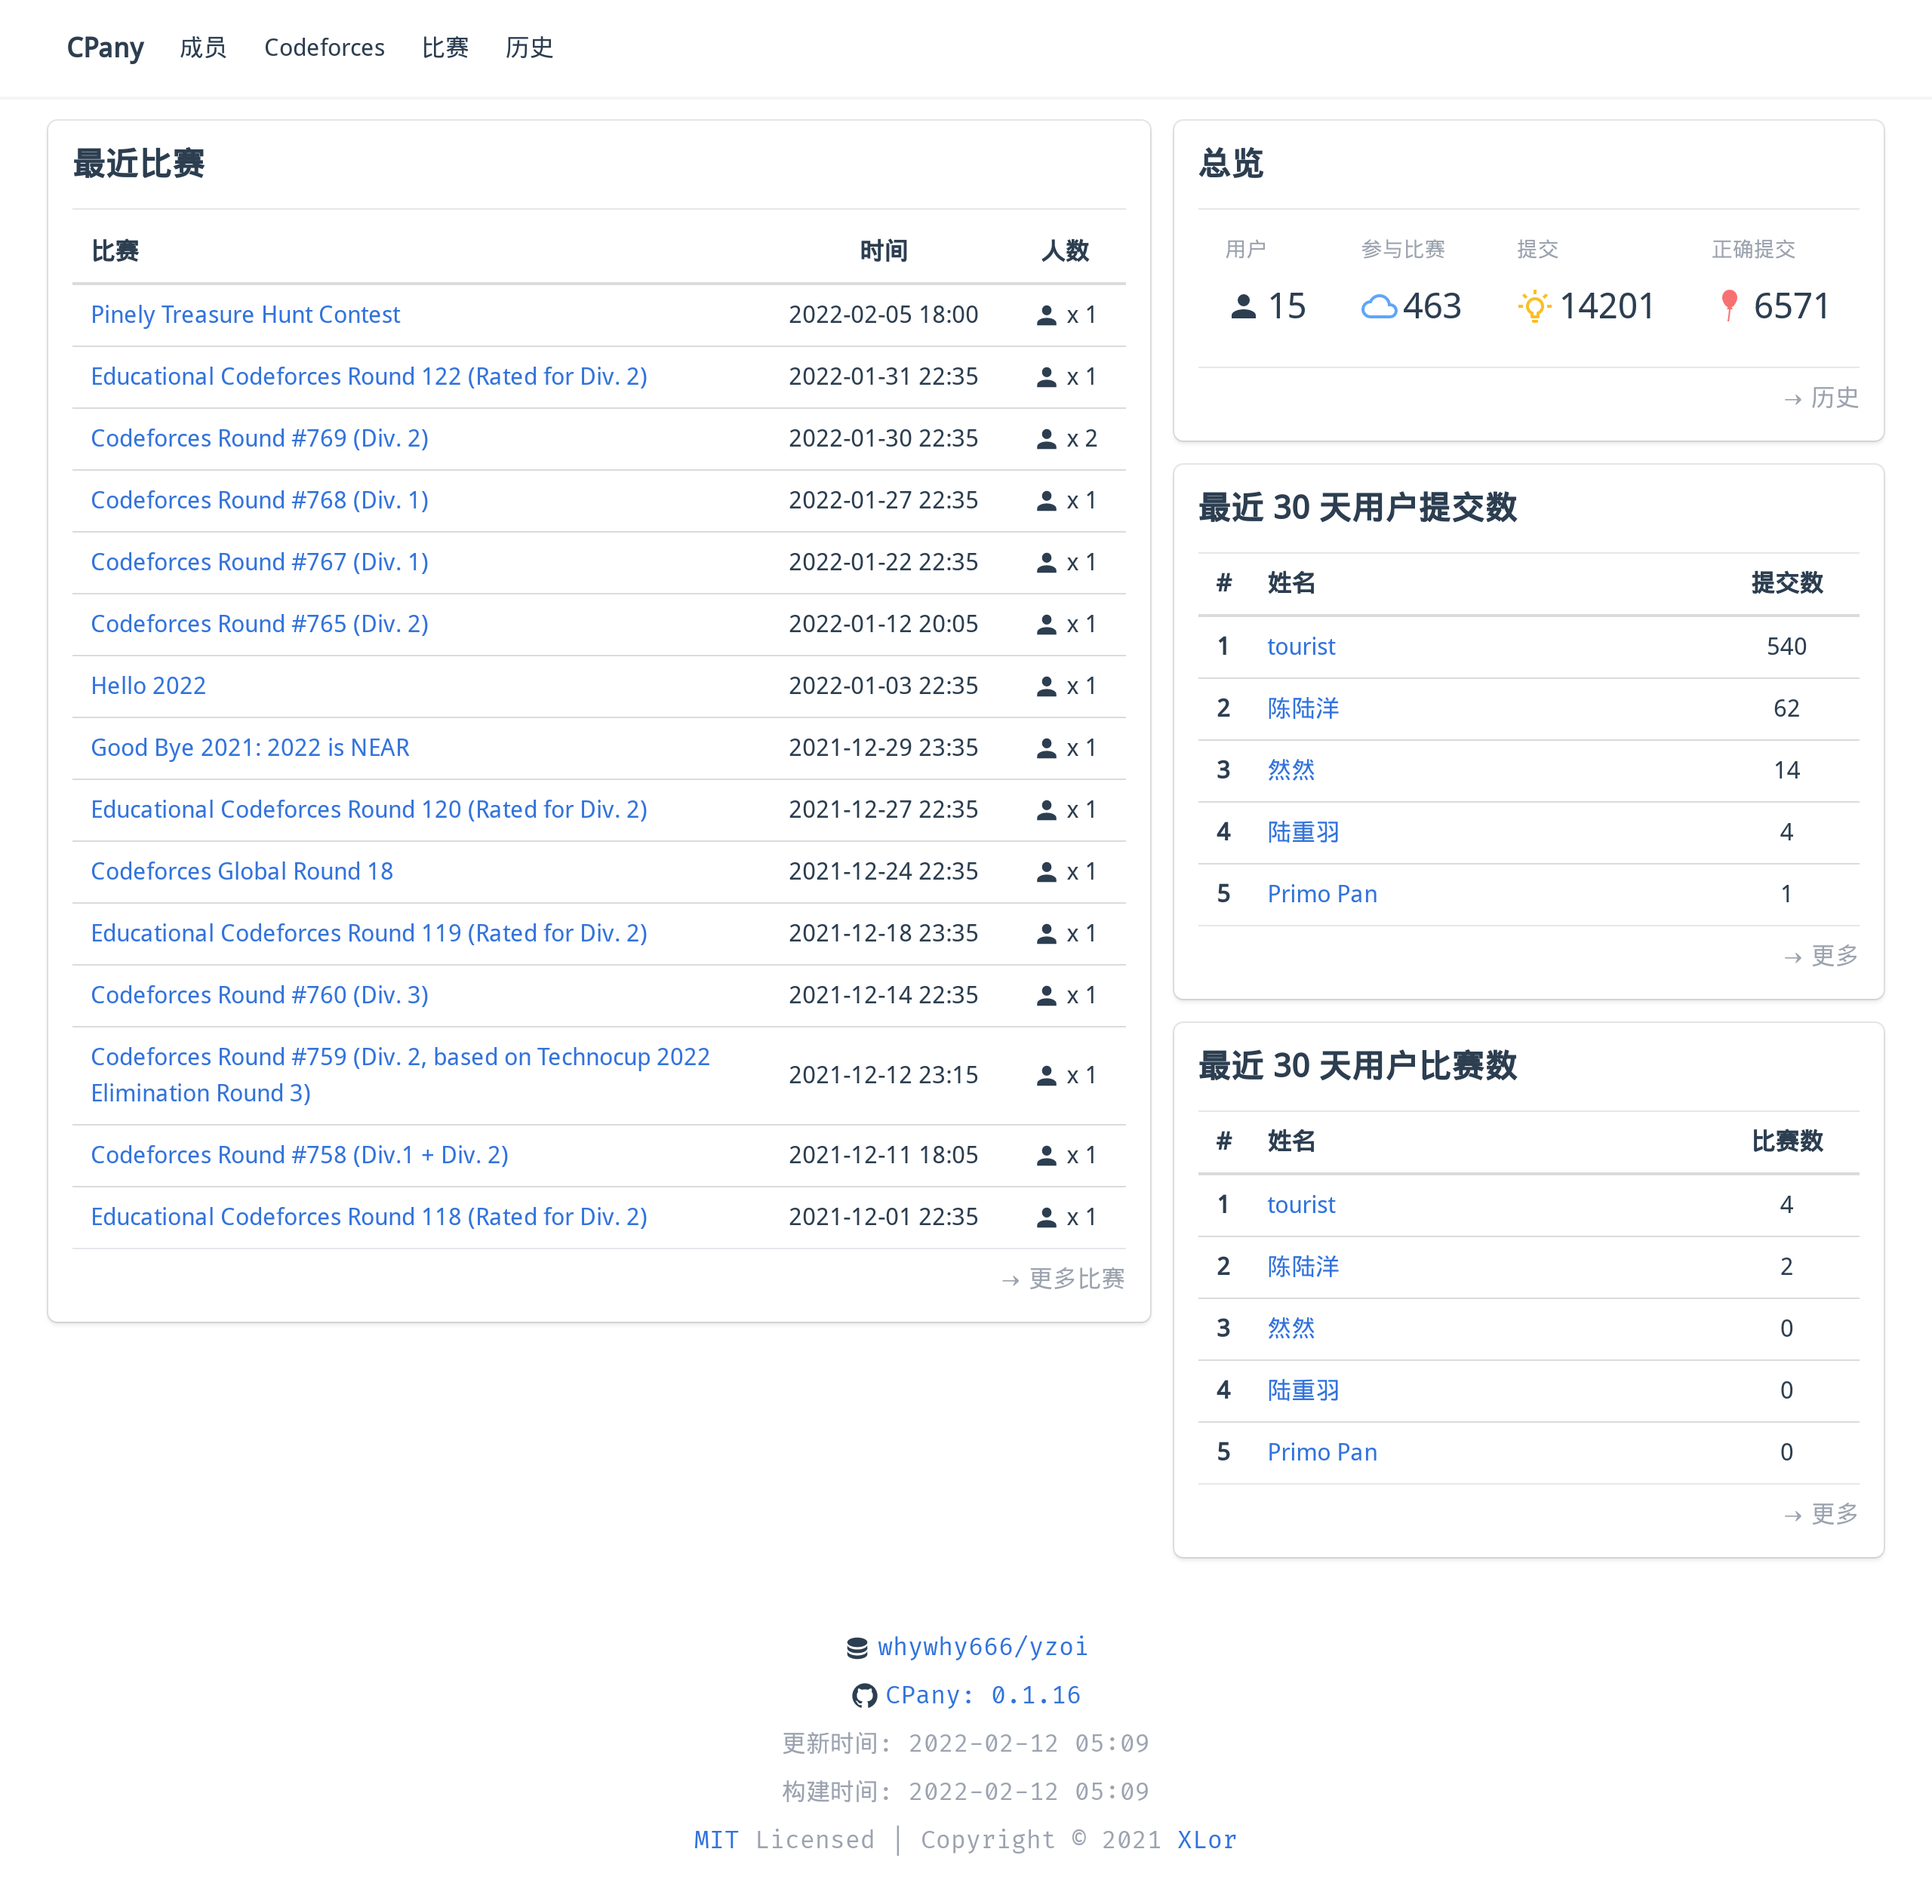
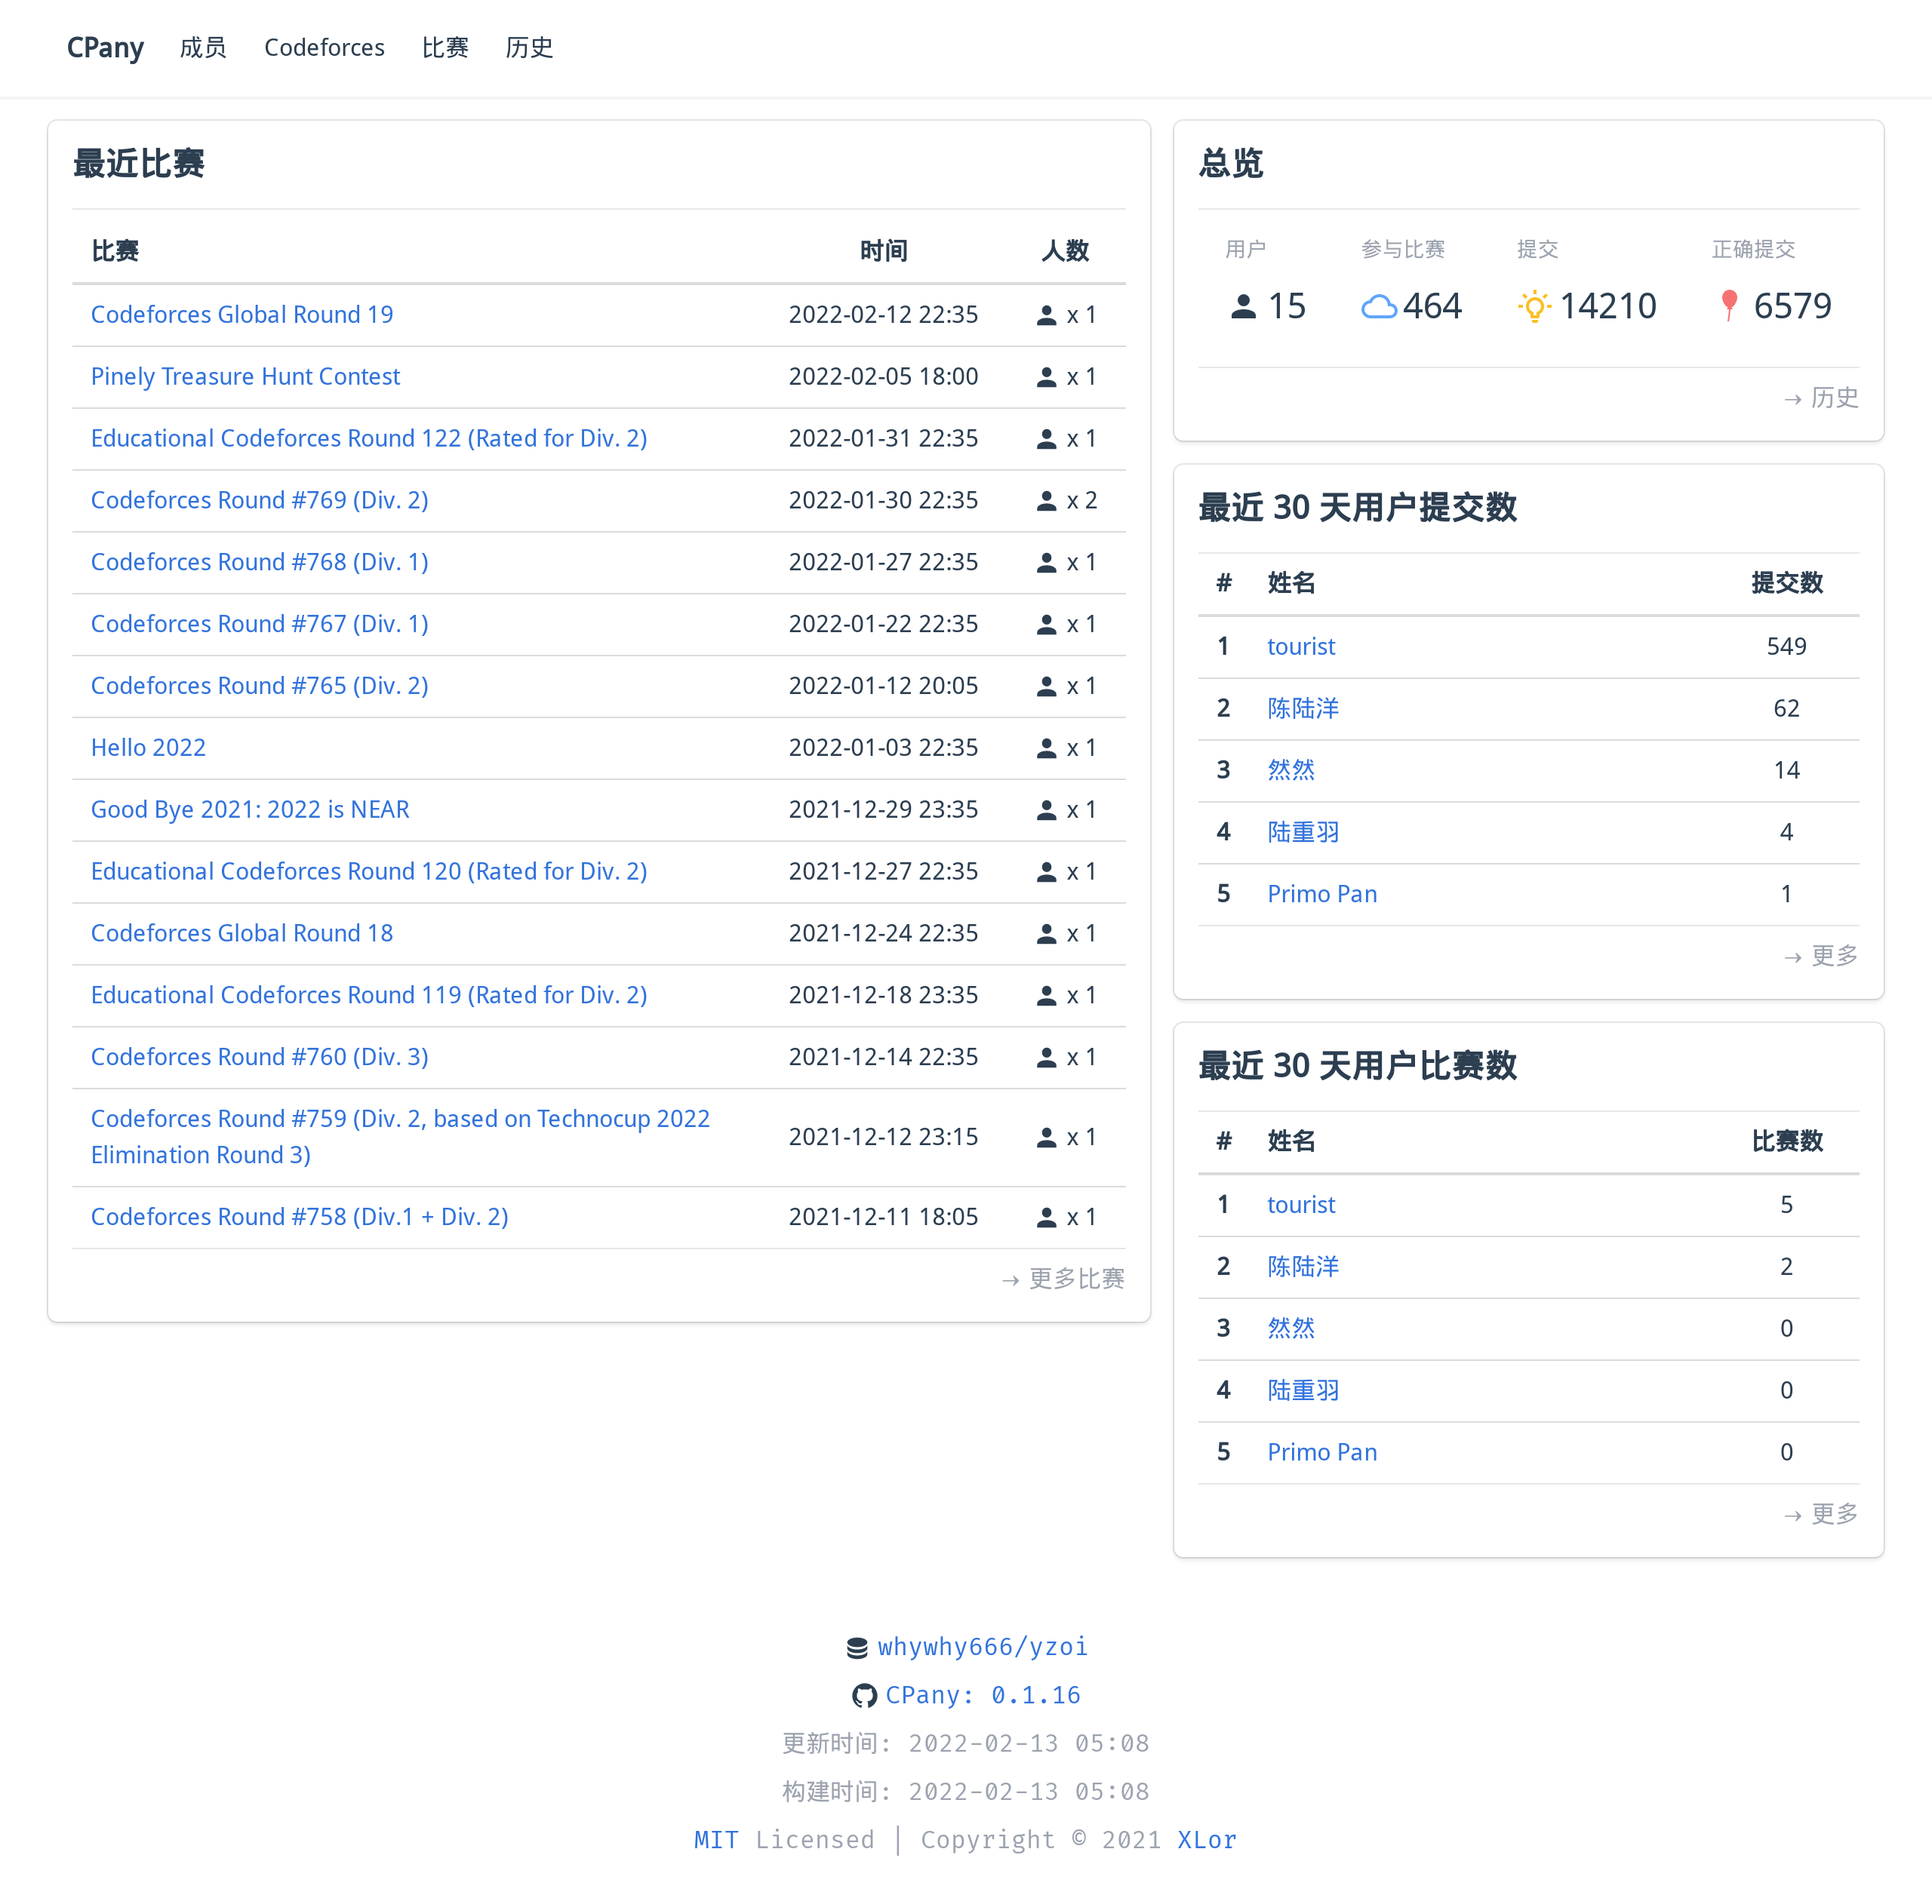
Fetch data on 2022-02-13 05:08

diff --git a/README.md b/README.md
@@ -3,7 +3,7 @@
 [![version](https://img.shields.io/npm/v/@cpany/cli?color=rgb%2850%2C203%2C86%29&label=CPany)](https://www.npmjs.com/package/@cpany/cli)
 
 <!-- START_SECTION: update_time -->
-更新时间：[2022-02-12 05:09](https://www.timeanddate.com/worldclock/fixedtime.html?msg=Fetch+data&iso=202202121644613767000050927&p1=237)
+更新时间：[2022-02-13 05:08](https://www.timeanddate.com/worldclock/fixedtime.html?msg=Fetch+data&iso=202202131644700087000050807&p1=237)
 <!-- END_SECTION: update_time -->
 
 ![members](./screenshot.png)
